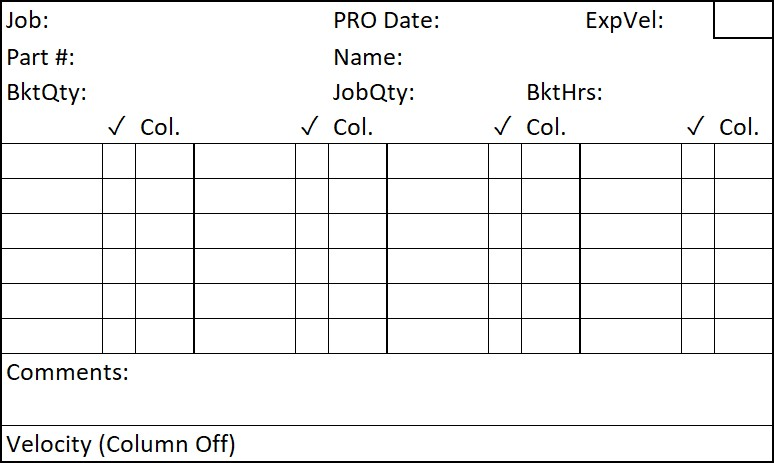
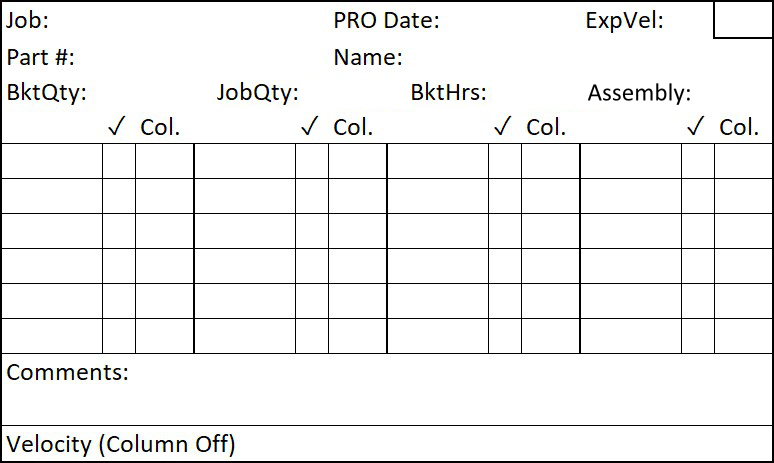
Update card template and GUI

Changed region(s): [[0.6822, 0.1814, 0.8992, 0.2419], [0.4341, 0.1814, 0.6202, 0.2419], [0.2791, 0.1814, 0.4031, 0.2419]]

diff --git a/app/card.py b/app/card.py
@@ -12,15 +12,16 @@ class Card:
     card_num: str
     card_count: str
 
-    job_num: str
-    part_num: str
-    bkt_qty: str
-    pro_date: str
-    part_name: str
-    job_qty: str
+    assembly: str
     bkt_hrs: str
+    bkt_qty: str
     exp_vel: str
+    job_num: str
+    job_qty: str
     ops: list[str]
+    part_name: str
+    part_num: str
+    pro_date: str
 
     back_image: Image = None
     front_image: Image = None
@@ -64,8 +65,9 @@ class Card:
         self.place_text(front_output, self.part_name, (412, 42))
 
         self.place_text(front_output, self.bkt_qty, (92, 78))
-        self.place_text(front_output, self.job_qty, (425, 78))
-        self.place_text(front_output, self.bkt_hrs, (613, 78))
+        self.place_text(front_output, self.job_qty, (307, 78))
+        self.place_text(front_output, self.bkt_hrs, (497, 78))
+        self.place_text(front_output, self.assembly, (700, 78))
 
         self.place_operations_text(front_output, self.ops)
 
@@ -117,21 +119,23 @@ class Card:
 class CardData:
     """Contains information for a group of similar cards."""
 
+    assembly: str
     bkt_hrs: str
     bkt_qty: int
     exp_vel: str
     job_num: str
-    job_qty: int
     part_name: str
     part_num: str
     part_qty: int
     pro_date: str
+
     ops: list[str] = None
 
     def __post_init__(self):
         self.bkt_qty = int(self.bkt_qty)
-        self.job_qty = int(self.job_qty)
         self.part_qty = int(self.part_qty)
+
+        self.job_qty = self.bkt_qty
 
     @property
     def card_count(self) -> int:

diff --git a/app/core.py b/app/core.py
@@ -77,19 +77,20 @@ def create_cards(card_data: card.CardData) -> list[card.Card]:
 
     for card_index in range(0, card_data.card_count):
         current_card = card.Card(
-            card_num=card_index + 1,
-            card_count=card_data.card_count,
-            job_num=card_data.job_num,
-            part_num=card_data.part_num,
+            assembly=card_data.assembly,
+            bkt_hrs=card_data.bkt_hrs,
             bkt_qty=card_data.remainder_parts
             if card_data.remainder_parts and card_index + 1 == card_data.card_count
             else card_data.bkt_qty,
-            pro_date=card_data.pro_date,
-            part_name=card_data.part_name,
-            job_qty=card_data.job_qty,
-            bkt_hrs=card_data.bkt_hrs,
+            card_count=card_data.card_count,
+            card_num=card_index + 1,
             exp_vel=card_data.exp_vel,
+            job_num=card_data.job_num,
+            job_qty=card_data.job_qty,
             ops=card_data.ops,
+            part_name=card_data.part_name,
+            part_num=card_data.part_num,
+            pro_date=card_data.pro_date,
         )
 
         card_list.append(current_card)

diff --git a/app/constants.py b/app/constants.py
@@ -32,11 +32,11 @@ CARD_QUANTITY_FIELDS: tuple = (
 
 CARD_DETAIL_FIELDS: tuple = (
     "Job",
+    "Assembly",
     "PRO Date",
     "ExpVel",
     "Part#",
     "Name",
-    "JobQty",
     "BktHrs",
 )
 
@@ -52,7 +52,7 @@ FORM_TRANSLATIONS: dict = {
     "BktHrs": "bkt_hrs",
     "ExpVel": "exp_vel",
     "Job": "job_num",
-    "JobQty": "job_qty",
+    "Assembly": "assembly",
     "Name": "part_name",
     "Part#": "part_num",
     "Parts Per Bucket": "bkt_qty",
